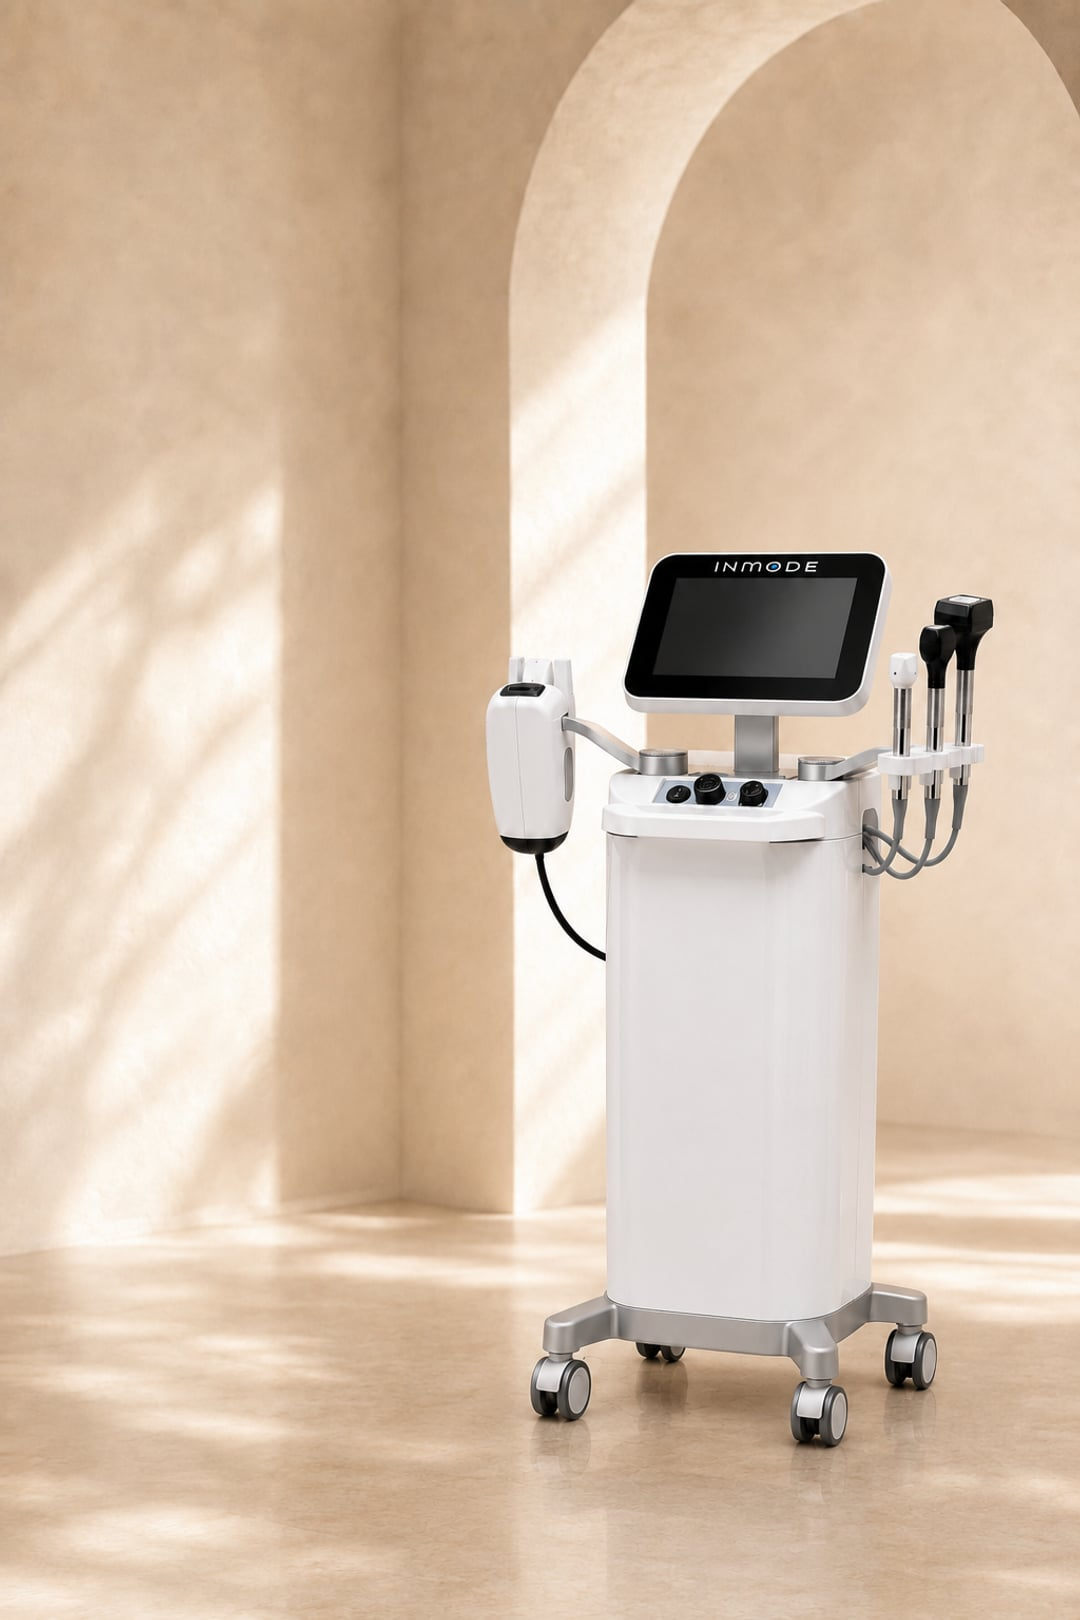
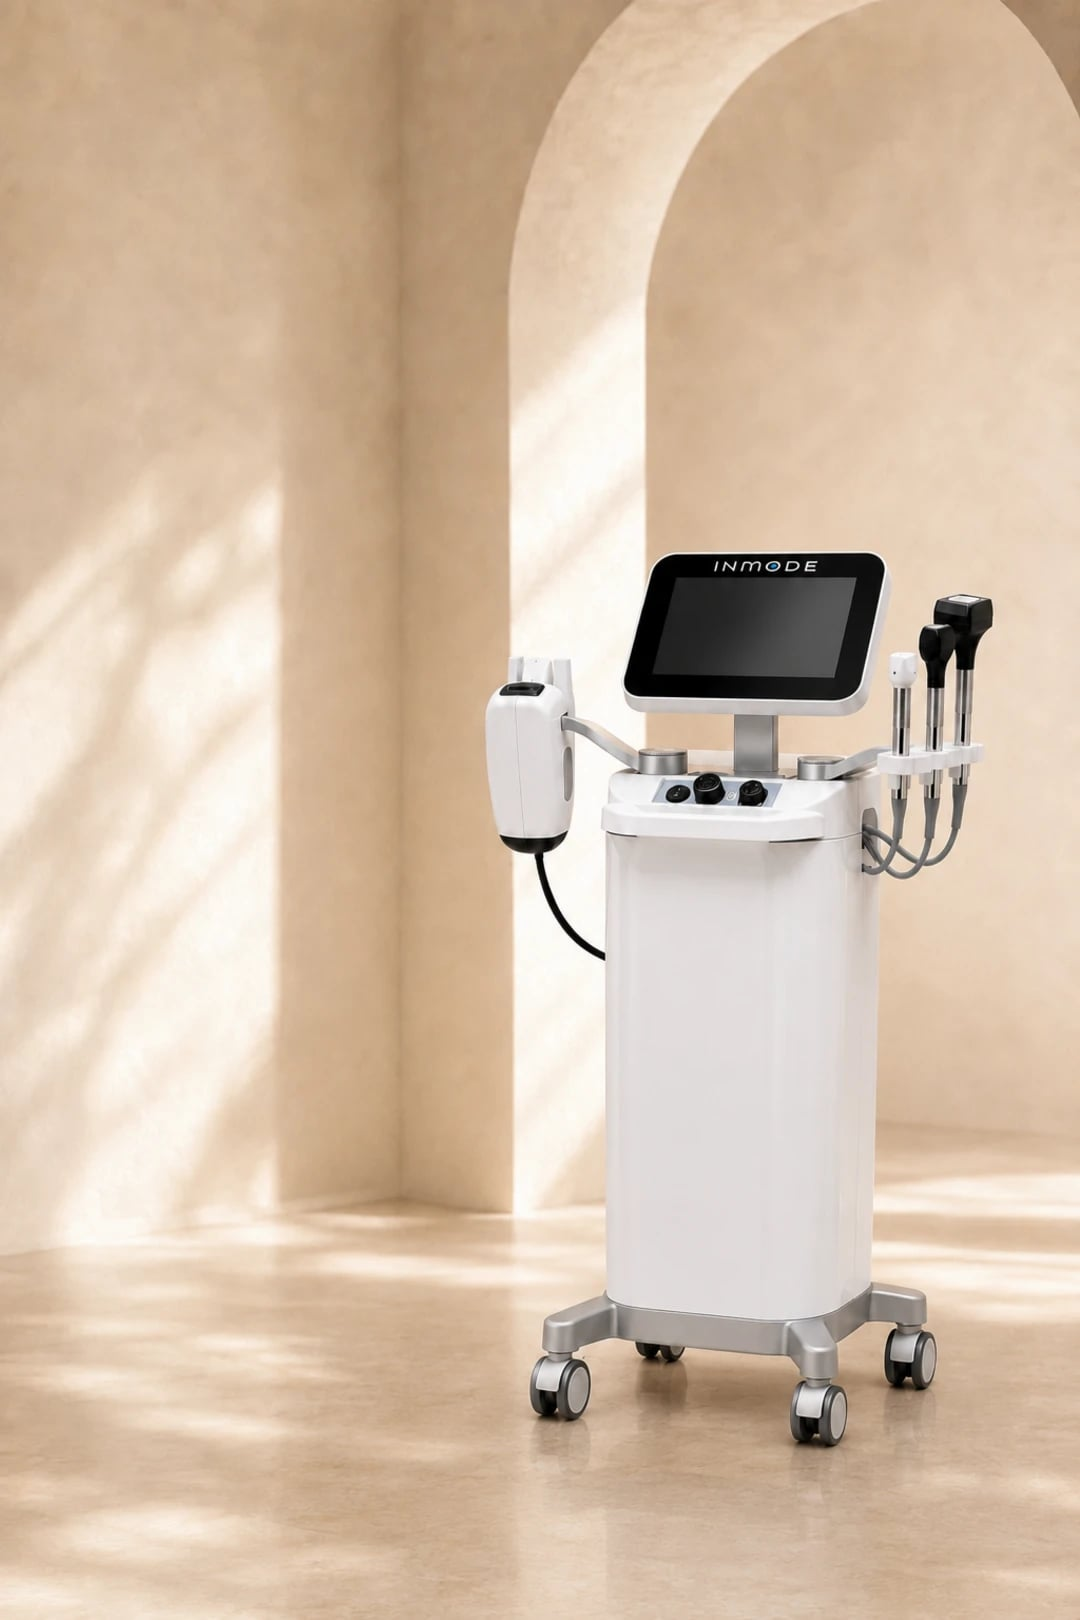
treatment/mobile: 장비 5종 모바일 히어로 이미지 추가 적용 (#32)
- 포토나 스타워커·인모드 모피우스·LDM·마크뷰 신규, 인모드 교체(?v=2)

diff --git a/lib/devices.ts b/lib/devices.ts
@@ -193,8 +193,12 @@ const DEVICE_HERO_MOBILE: Record<string, string> = {
   "ulthera-prime": "/devices/ulthera-prime-hero-m.jpg",
   "thermage-flx": "/devices/thermage-flx-hero-m.jpg",
   "shurink-universe": "/devices/shurink-universe-hero-m.jpg",
-  inmode: "/devices/inmode-hero-m.jpg",
+  inmode: "/devices/inmode-hero-m.jpg?v=2",
   "clarity-ii": "/devices/clarity-ii-hero-m.jpg?v=2",
+  "fotona-starwalker": "/devices/fotona-starwalker-hero-m.jpg",
+  "inmode-morpheus": "/devices/inmode-morpheus-hero-m.jpg",
+  ldm: "/devices/ldm-hero-m.jpg",
+  markview: "/devices/markview-hero-m.jpg",
   "aqua-peel": "/devices/aqua-peel-hero-m.jpg",
   bellalux: "/devices/bellalux-hero-m.jpg",
   "carpri-co2": "/devices/carpri-co2-hero-m.jpg",
